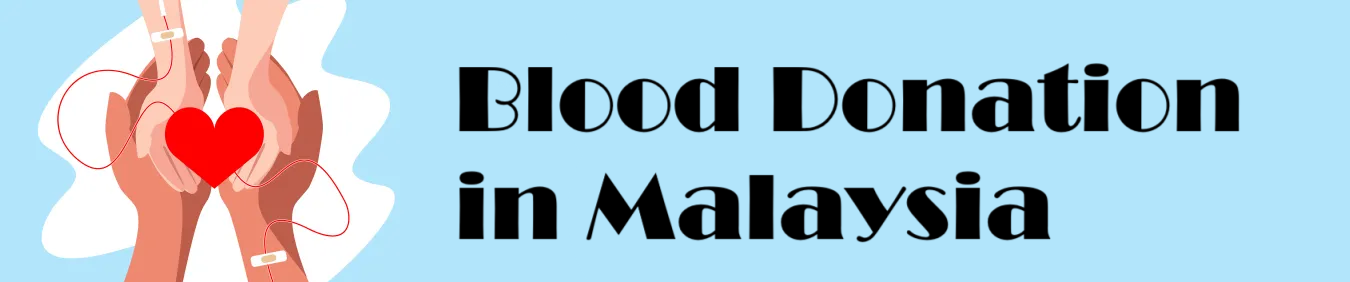
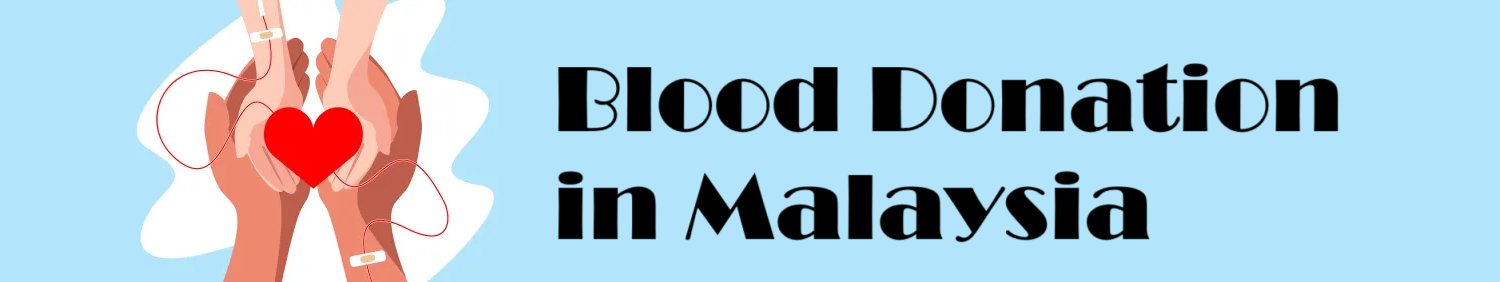
modify

diff --git a/Blood_Donation.html b/Blood_Donation.html
@@ -59,7 +59,9 @@
 </head>
 <body>
 
-<h1>Blood Donation of States in Malaysia</h1>
+<header>
+    <img src="https://github.com/zbon0001/3179/blob/main/Blood%20Donation.jpg?raw=true" alt="Blood Donation Header Image" class="header-image">
+</header>
 
 <div class="container">
     <!-- Map Chart -->
